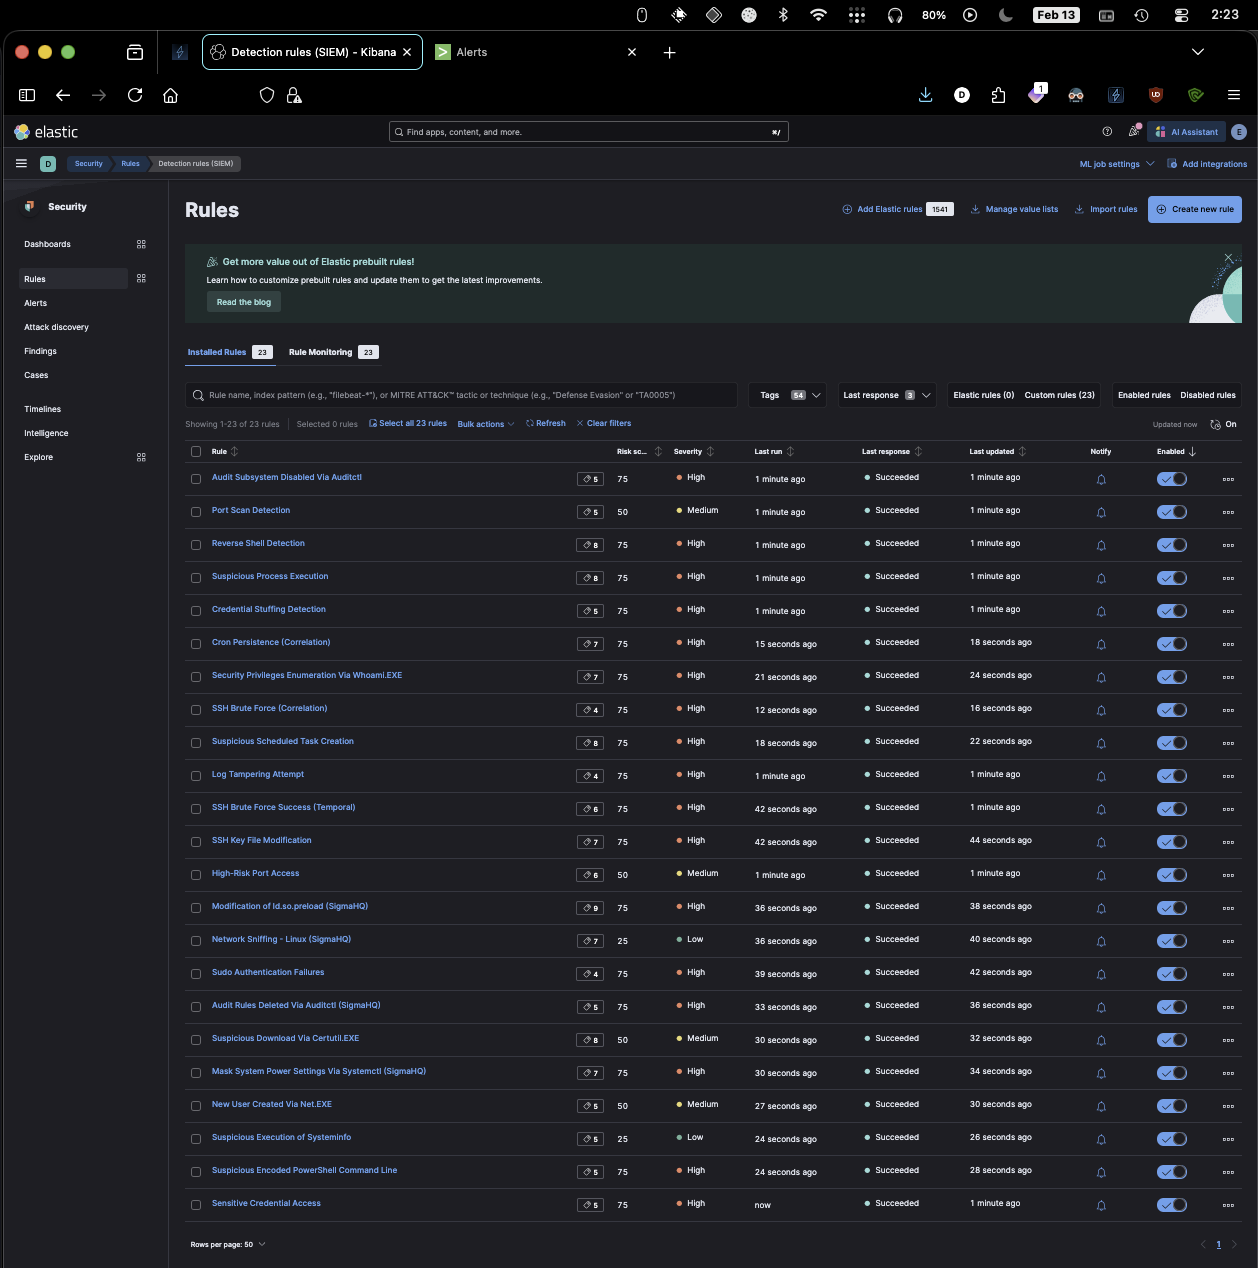
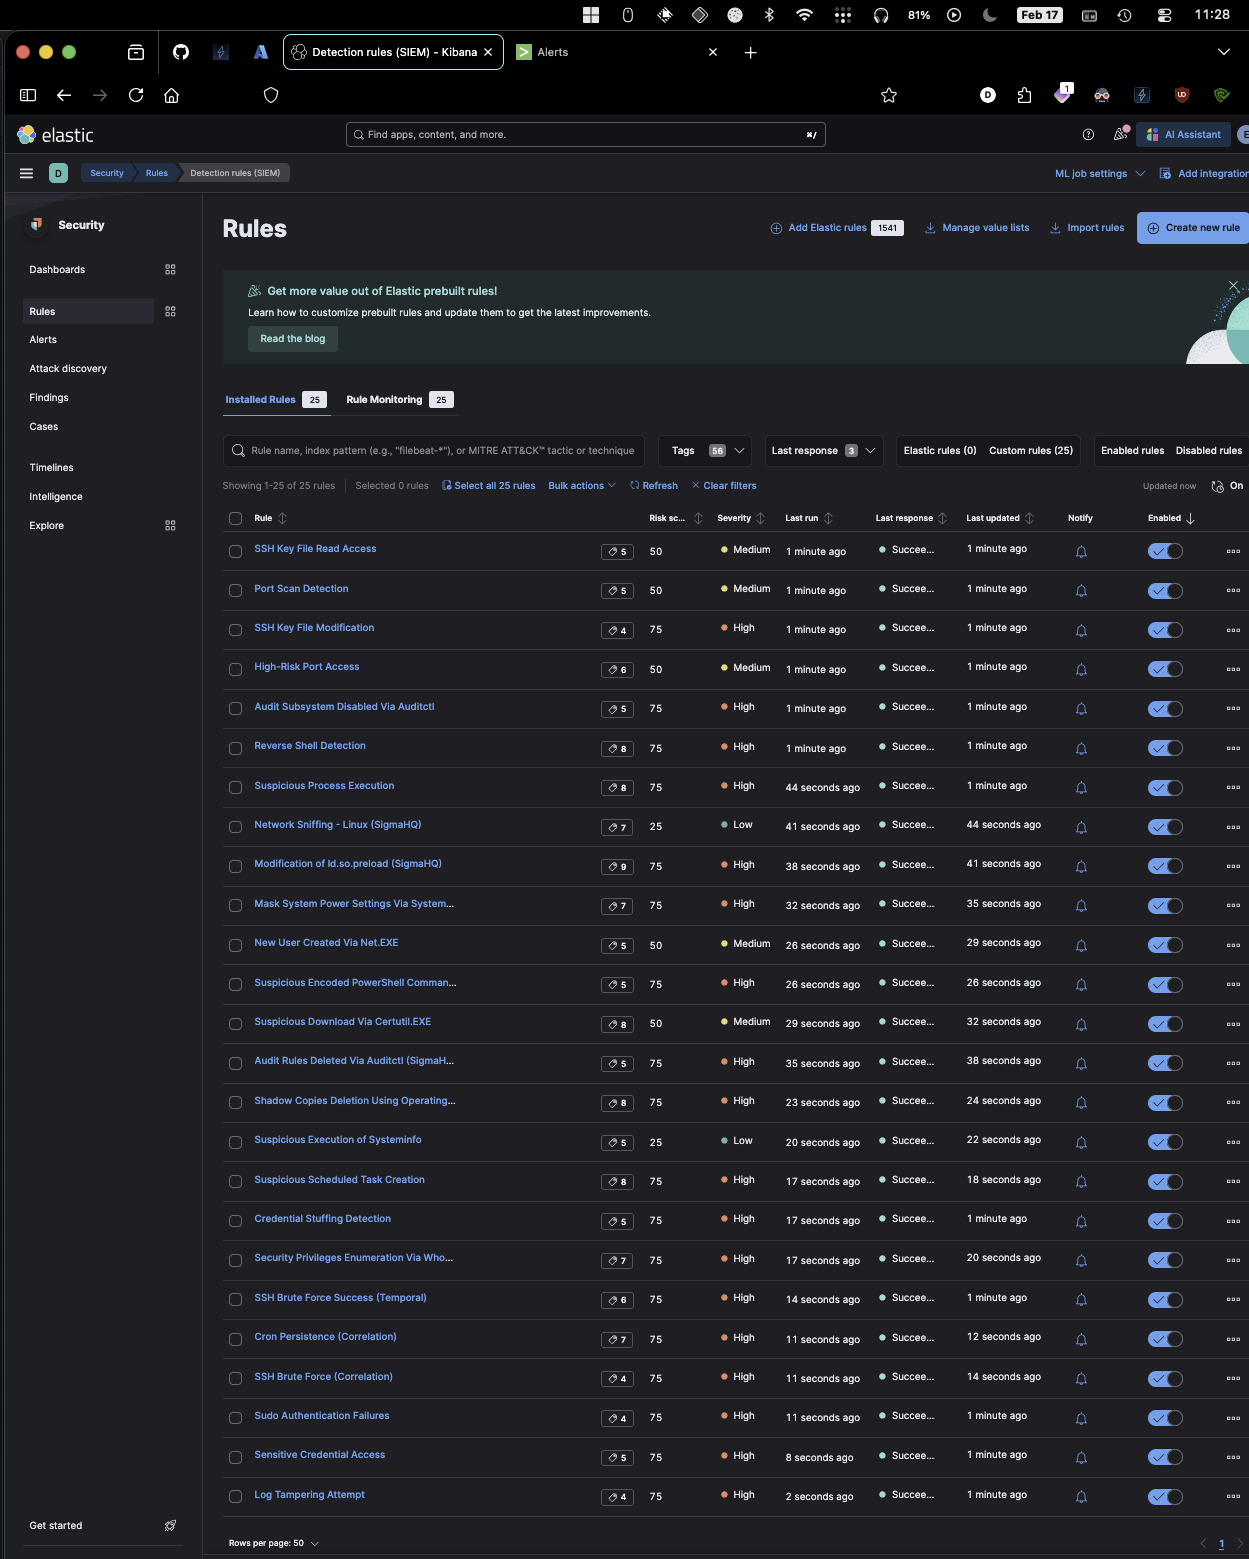
chore(photos): updating rule count.

diff --git a/README.md b/README.md
@@ -339,7 +339,7 @@ Custom health check script provides single-command visibility into the full stac
 | Metric | Result |
 |--------|--------|
 | **Security Events** | ~8M processed with zero pipeline failures |
-| **Detection Rules** | 21 rules across 2 SIEM platforms, 5 rule types, 6 rule classes |
+| **Detection Rules** | 25 rules across 2 SIEM platforms, 5 rule types, 6 rule classes |
 | **MITRE Coverage** | 18 techniques across 9 tactics |
 | **Backends** | 5 targets (2 deployed, 3 conversion) |
 | **Query Languages** | Lucene, ES\|QL, EQL, SPL, KQL, YARA-L, LogScale QL |
